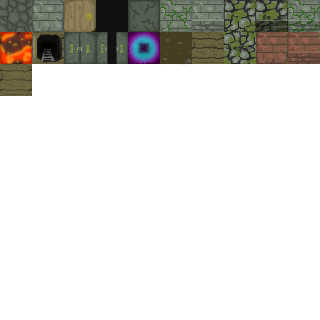
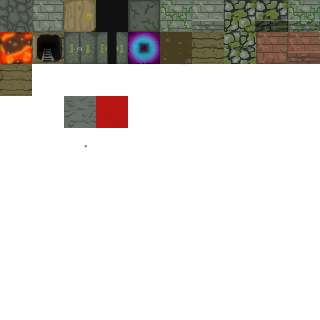
moretrapdoor

Changed region(s): [[0.1875, 0.2812, 0.4062, 0.4062]]

diff --git a/main.py b/main.py
@@ -90,6 +90,8 @@ def get_input(player, m, ts, cs, shield):
             cs.insert(0, player)
             player.x = 40*32
             player.y = 40*32
+            world.worlds["fwfwe"] = nm, cs
+            world.cur_world = "fwfwe"
             return nm, cs, shield
     if not s and not w:
         player.vy = 0
@@ -220,6 +222,7 @@ def game_mode(timers, player, game_map, ts, sprites, shield, swidth, running):
       
     game_map, sprites, shield = get_input(player, game_map, ts, sprites, shield)       
     
+    
     for s in sprites:
         creatures.tick_anim(s)
         if s.kind != "wall":
@@ -255,6 +258,7 @@ def game_mode(timers, player, game_map, ts, sprites, shield, swidth, running):
                 running = False
         
     return sprites, running, game_map, shield
+    
 def main(screen):   
     clock = pygame.time.Clock()
     running = True
@@ -354,8 +358,11 @@ def main(screen):
     cam_size = 32 * 15 
     cam = display.Camera(player, 32, 32, cam_size, cam_size)
     
+    world.worlds["main"] = (game_map, sprites)
     while(running):
         clock.tick(60)
+        game_map, sprites = world.worlds[world.cur_world]
+        last_world = world.cur_world
         key_timer += 1
         if world.globs["tortoise_spawn"] == True:
             tortoise_spawn(creatures.cur_zone(player, zones), sprites)
@@ -367,10 +374,10 @@ def main(screen):
         else:
             assert(False)
         
-        nearby_sprites = list(filter(lambda s: distance(s,player) < 250, sprites))
-        collisions.check_collisions(nearby_sprites, sprites)
+        #nearby_sprites = list(filter(lambda s: distance(s,player) < 250, sprites))
+        #collisions.check_collisions(nearby_sprites, sprites)
 
-        sprites = list(filter(lambda s: s.alive, sprites))
+        #sprites = list(filter(lambda s: s.alive, sprites))
             
         for event in pygame.event.get():
             if event.type == pygame.MOUSEBUTTONDOWN:
@@ -380,7 +387,9 @@ def main(screen):
             if event.type == pygame.KEYDOWN:
                 if event.key == pygame.K_SPACE:
                     running = False
-                
+        if last_world == world.cur_world:
+            world.worlds[world.cur_world] = (game_map, sprites)
+        
         screen.fill((0,0,0))    
         if player.alive:
             display.draw_interface(screen, cam, ts, game_map, sprites)

diff --git a/collisions.py b/collisions.py
@@ -171,6 +171,9 @@ def shrinkyrect(r, percent):
     newheight = r.height - heightmod
     return pygame.Rect(newx, newy, newwidth, newheight)
 
+def climb_ladder(p1, p2, sprites):
+    world.cur_world = "main"
+    print("EIW")
 def check_collisions(nearby, sprites):
     scombs = combinations(nearby, 2)
     for s1, s2 in scombs:
@@ -216,4 +219,5 @@ collision_db = {("player", "monk"): keep_separated,
                 ("player", "wall"): keep_separated,
                 ("player", "key"): get_key,
                 ("player", "coin"): get_coin,
-                ("player", "key"): get_key}
+                ("player", "key"): get_key,
+                ("player", "ladder"): climb_ladder}

diff --git a/world.py b/world.py
@@ -13,6 +13,8 @@ diaindex = 0
 choice = ""  
 partner = None
 globs = {"tortoise_spawn": False}
+cur_world = "main"
+worlds = {}
 image_db = ["BODY_male.png",
             "LEGS_robe_skirt.png",
             "boganim.png",
@@ -42,7 +44,8 @@ image_db = ["BODY_male.png",
             "dbbr.png",
             "stranger.png",
             "tortoise2.png",
-            "tortoise_collector.png"]
+            "tortoise_collector.png",
+            "chest.png"]
             
 def tile(walkable=True, floor_tile=False, matching_tile=None):
     results = TileInfo()

diff --git a/dungeongen.py b/dungeongen.py
@@ -371,6 +371,10 @@ def trap_door_room(player):
         key.item = True
         sprites.append(key)
     
+    ladder = Sprite(1152, 1152, "ladder", simple_img=world.image_db["chest"])
+    ladder.alive = True
+    sprites.append(ladder)
+    
     spawnpoints = get_coords(m, filter_dict(lambda x: x.floor_tile, world.TILES.data))
     
     for x in range(2):
